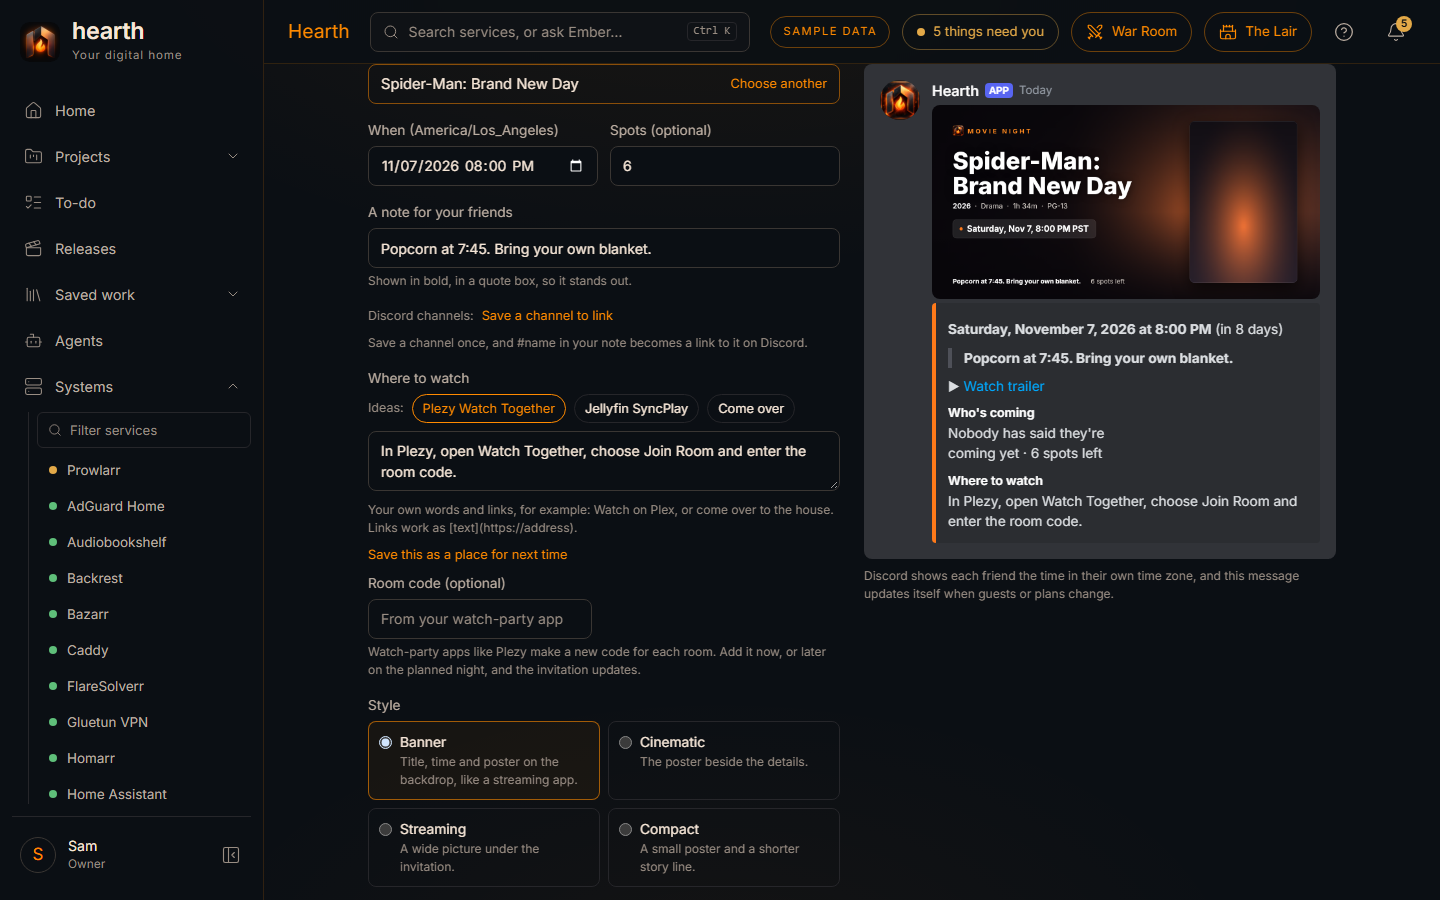
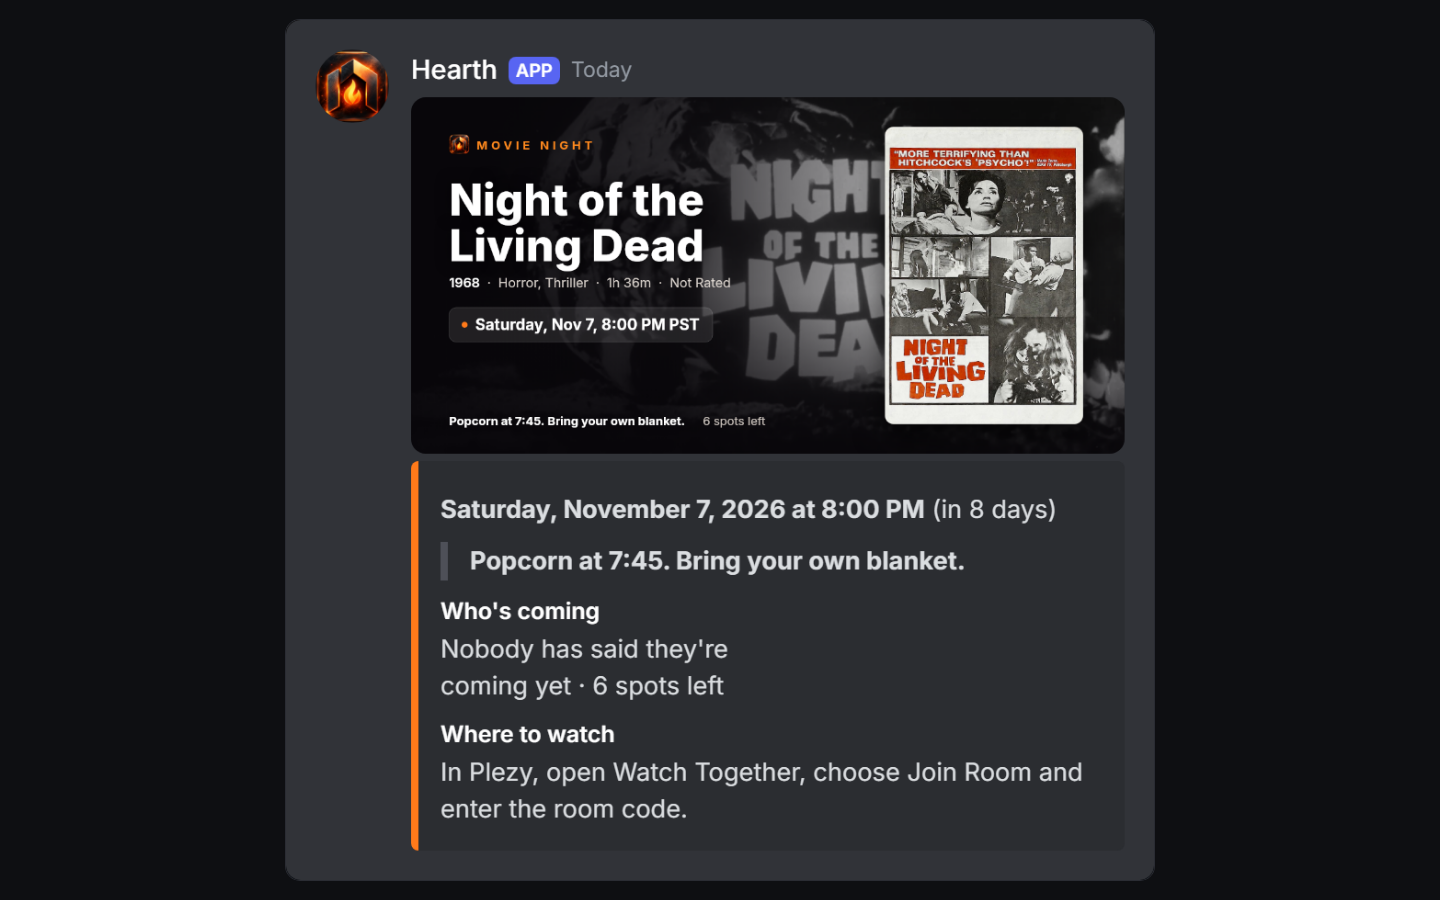
Watch parties shown with a real movie: Night of the Living Dead (1968, public domain)
Claude-Session: https://claude.ai/code/session_016jvHKgc9wkYBpVKpSneEUg

diff --git a/docs/index.html b/docs/index.html
@@ -78,9 +78,9 @@
     <figure class="shot"><a href="assets/shots/storage.png"><img src="assets/shots/storage.png" alt="Storage &amp; Files: Every drive with its health and temperature, plus files, recent downloads, file journeys, and RAID arrays." width="1440" height="900" loading="lazy"></a><figcaption><strong>Storage &amp; Files</strong> Every drive with its health and temperature, plus files, recent downloads, file journeys, and RAID arrays.</figcaption></figure>
     <figure class="shot"><a href="assets/shots/war-room.png"><img src="assets/shots/war-room.png" alt="The War Room: Your projects with Claude Code, Codex, or a local Ollama model: a terminal, a task queue, files, and a kill switch." width="1440" height="900" loading="lazy"></a><figcaption><strong>The War Room</strong> Your projects with Claude Code, Codex, or a local Ollama model: a terminal, a task queue, files, and a kill switch.</figcaption></figure>
     <figure class="shot"><a href="assets/shots/notifications.png"><img src="assets/shots/notifications.png" alt="Notifications: Email, Discord, ntfy, or a webhook. Hearth writes only when something matters and says whether you need to act." width="1440" height="900" loading="lazy"></a><figcaption><strong>Notifications</strong> Email, Discord, ntfy, or a webhook. Hearth writes only when something matters and says whether you need to act.</figcaption></figure>
-    <figure class="shot"><a href="assets/shots/announce.png"><img src="assets/shots/announce.png" alt="Tell friends what is new: When a movie or show lands in Plex or Jellyfin, Hearth posts it to your friends&#39; Discord with its details and trailer. Here, Spider-Man: Brand New Day." width="1440" height="900" loading="lazy"></a><figcaption><strong>Tell friends what is new</strong> When a movie or show lands in Plex or Jellyfin, Hearth posts it to your friends&#39; Discord with its details and trailer. Here, Spider-Man: Brand New Day.</figcaption></figure>
-    <figure class="shot"><a href="assets/shots/movie-night-banner.png"><img src="assets/shots/movie-night-banner.png" alt="Watch parties, with a banner: Pick a movie and a time, and Hearth posts the invitation with reminders. The Banner style draws the title, time and poster over the movie&#39;s backdrop, like a streaming app." width="1440" height="900" loading="lazy"></a><figcaption><strong>Watch parties, with a banner</strong> Pick a movie and a time, and Hearth posts the invitation with reminders. The Banner style draws the title, time and poster over the movie&#39;s backdrop, like a streaming app.</figcaption></figure>
-    <figure class="shot"><a href="assets/shots/movie-night-streaming.png"><img src="assets/shots/movie-night-streaming.png" alt="Pick the look: Banner, Cinematic, Streaming, or Compact. Streaming puts a wide picture under the invitation. Friends answer I&#39;m in or Can&#39;t make it." width="1440" height="900" loading="lazy"></a><figcaption><strong>Pick the look</strong> Banner, Cinematic, Streaming, or Compact. Streaming puts a wide picture under the invitation. Friends answer I&#39;m in or Can&#39;t make it.</figcaption></figure>
+    <figure class="shot"><a href="assets/shots/announce.png"><img src="assets/shots/announce.png" alt="Tell friends what is new: When a movie or show lands in Plex or Jellyfin, Hearth posts it to your friends&#39; Discord with its poster, details and trailer. Shown with Night of the Living Dead (1968, public domain)." width="1440" height="900" loading="lazy"></a><figcaption><strong>Tell friends what is new</strong> When a movie or show lands in Plex or Jellyfin, Hearth posts it to your friends&#39; Discord with its poster, details and trailer. Shown with Night of the Living Dead (1968, public domain).</figcaption></figure>
+    <figure class="shot"><a href="assets/shots/movie-night-banner.png"><img src="assets/shots/movie-night-banner.png" alt="Watch parties, with a banner: The Banner style: Hearth draws the title, time and your note over the movie&#39;s own backdrop, with its poster beside them, then the RSVP card. Night of the Living Dead (1968, public domain)." width="1440" height="900" loading="lazy"></a><figcaption><strong>Watch parties, with a banner</strong> The Banner style: Hearth draws the title, time and your note over the movie&#39;s own backdrop, with its poster beside them, then the RSVP card. Night of the Living Dead (1968, public domain).</figcaption></figure>
+    <figure class="shot"><a href="assets/shots/movie-night-streaming.png"><img src="assets/shots/movie-night-streaming.png" alt="Pick the look: Banner, Cinematic, Streaming, or Compact. Streaming puts the movie&#39;s backdrop under the invitation. Friends answer I&#39;m in or Can&#39;t make it." width="1440" height="900" loading="lazy"></a><figcaption><strong>Pick the look</strong> Banner, Cinematic, Streaming, or Compact. Streaming puts the movie&#39;s backdrop under the invitation. Friends answer I&#39;m in or Can&#39;t make it.</figcaption></figure>
     <figure class="shot"><a href="assets/shots/movie-night-posted.png"><img src="assets/shots/movie-night-posted.png" alt="Planned, with a guest list: The watch party, who is coming, and spots left. Change the time, add a room code, or cancel it, and everyone invited hears about it." width="1440" height="900" loading="lazy"></a><figcaption><strong>Planned, with a guest list</strong> The watch party, who is coming, and spots left. Change the time, add a room code, or cancel it, and everyone invited hears about it.</figcaption></figure>
     <figure class="shot"><a href="assets/shots/hearth-bot-add.png"><img src="assets/shots/hearth-bot-add.png" alt="Add Discord in one click: Add a destination, choose the Hearth bot, and pick who reads it. A friends and family channel only ever gets media announcements, never system alerts." width="1440" height="900" loading="lazy"></a><figcaption><strong>Add Discord in one click</strong> Add a destination, choose the Hearth bot, and pick who reads it. A friends and family channel only ever gets media announcements, never system alerts.</figcaption></figure>
     <figure class="shot"><a href="assets/shots/hearth-bot-setup.png"><img src="assets/shots/hearth-bot-setup.png" alt="The Hearth bot, no token needed: Add Hearth to your Discord server, pick the channel, and you are done. Movie night invitations get I&#39;m in and Can&#39;t make it buttons." width="1440" height="900" loading="lazy"></a><figcaption><strong>The Hearth bot, no token needed</strong> Add Hearth to your Discord server, pick the channel, and you are done. Movie night invitations get I&#39;m in and Can&#39;t make it buttons.</figcaption></figure>
